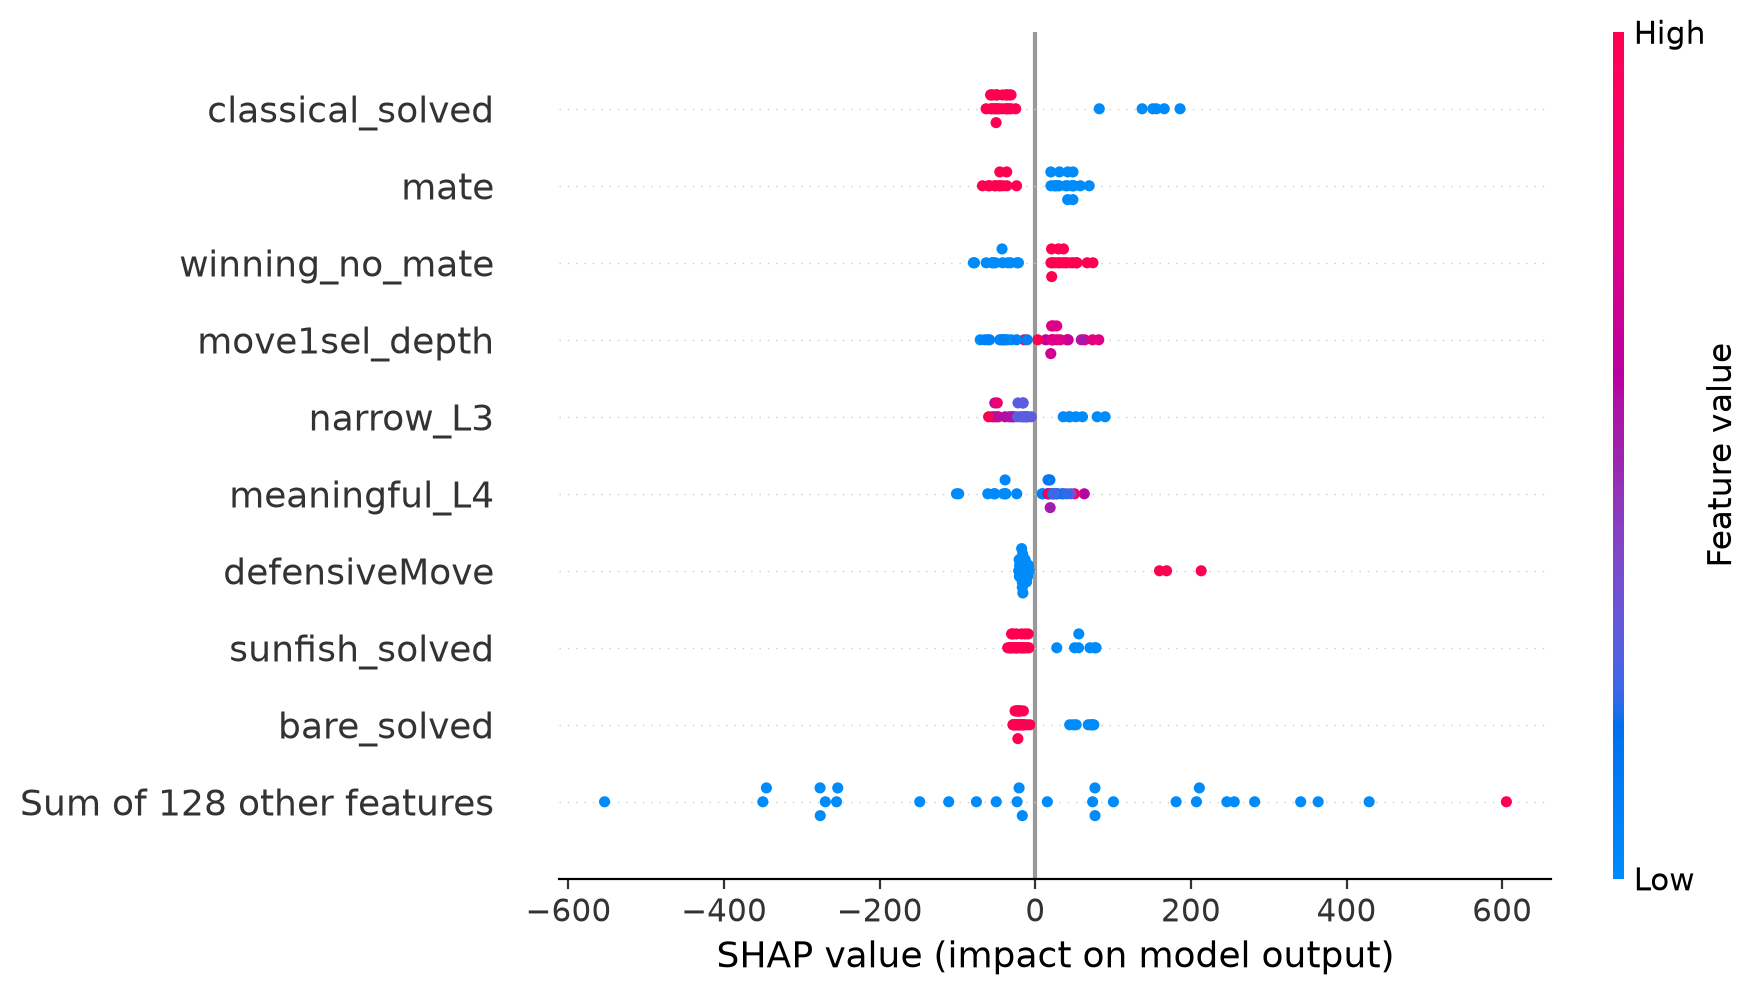
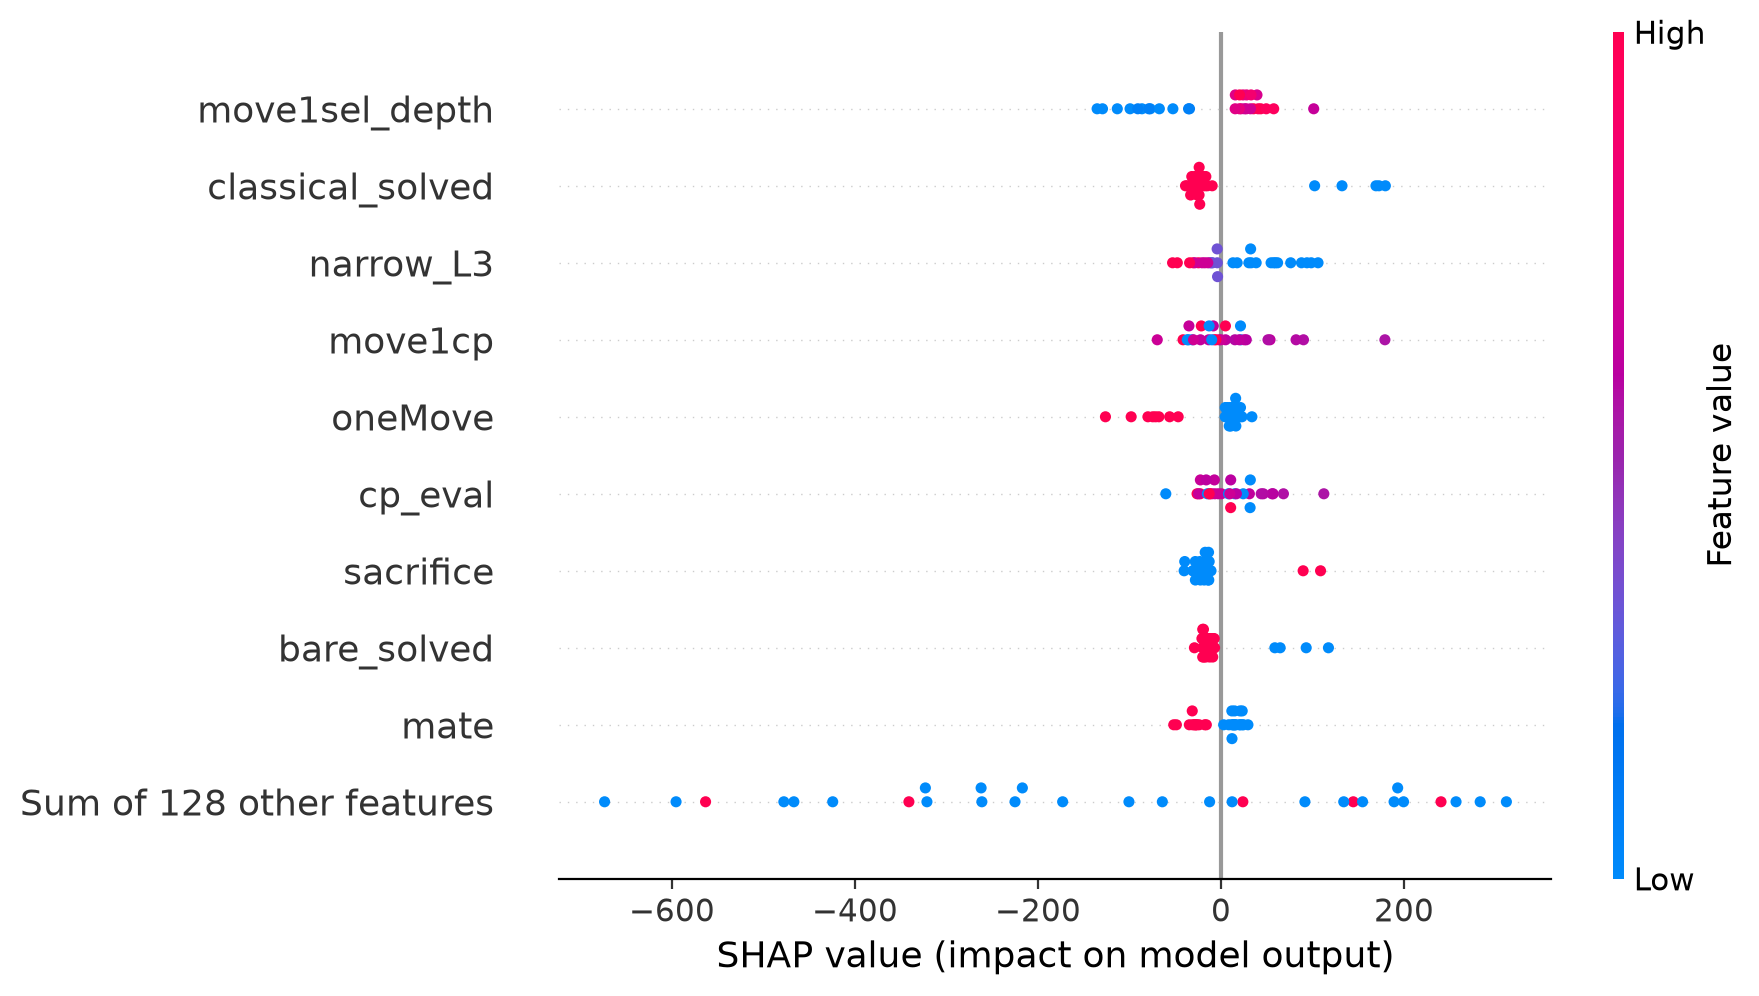
shap v evaluationu

diff --git a/code/evaluation/evaluation.py b/code/evaluation/evaluation.py
@@ -1,6 +1,7 @@
 import pandas as pd
 import numpy as np
 import matplotlib.pyplot as plt
+import shap
 from matplotlib.colors import LinearSegmentedColormap
 from sklearn.base import BaseEstimator, RegressorMixin, ClassifierMixin, is_classifier, is_regressor
 from sklearn.tree import DecisionTreeRegressor
@@ -11,8 +12,8 @@ from sklearn.preprocessing import StandardScaler, QuantileTransformer, PowerTran
 from sklearn.compose import TransformedTargetRegressor
 from xgboost import XGBRegressor, XGBClassifier, XGBRanker
 from sklearn.metrics import mean_absolute_error as MAE
-#from lightgbm import LGBMRegressor
-#from catboost import CatBoostRegressor
+from lightgbm import LGBMRegressor
+from catboost import CatBoostRegressor
 from sklearn.ensemble import StackingRegressor, GradientBoostingClassifier, RandomForestClassifier, VotingClassifier
 from sklearn.linear_model import Ridge, LinearRegression, BayesianRidge, LogisticRegression, SGDClassifier, SGDRegressor
 from sklearn.metrics import accuracy_score, confusion_matrix, classification_report, f1_score, roc_auc_score
@@ -46,7 +47,7 @@ def elo_to_difficulty(y):
 
 def heatmap(y_true, y_pred, title=""):
     cm = confusion_matrix(y_true, y_pred)
-    colors=["#00FF00", "#FFFF00", "#FF0000"]
+    colors=["#FF0000", "#FFFF00", "#00FF00"]
     cmap = LinearSegmentedColormap.from_list("custom_green_red", colors)
     fig, ax = plt.subplots(figsize=(6, 5))
     cax = ax.imshow(cm, interpolation='nearest', cmap=cmap)
@@ -68,10 +69,20 @@ def heatmap(y_true, y_pred, title=""):
 
 def evaluate(model, X_train, X_test, y_train, y_test, plots, standardize=True):
     print(type(model).__name__)
+    scaler = None
     if standardize:
         scaler = StandardScaler()
-        X_train_scaled = scaler.fit_transform(X_train)
-        X_test_scaled = scaler.transform(X_test)
+        X_train_scaled = pd.DataFrame(
+            scaler.fit_transform(X_train),
+            columns=X_train.columns,
+            index=X_train.index
+        )
+
+        X_test_scaled = pd.DataFrame(
+            scaler.transform(X_test),
+            columns=X_test.columns,
+            index=X_test.index
+        )
     else:
         X_train_scaled = X_train
         X_test_scaled = X_test
@@ -90,6 +101,7 @@ def evaluate(model, X_train, X_test, y_train, y_test, plots, standardize=True):
             pass
             #print(confusion_matrix(y_test, y_pred))
             #print(classification_report(y_test, y_pred))
+    return y_pred, scaler
 
 def evaluate_cv(model, X, y, folds=10, standardize=True):
     X_ = X.copy()
@@ -129,30 +141,51 @@ def evaluate_cv(model, X, y, folds=10, standardize=True):
         
 
 def evaluate_models(models, X, plots=False, cv=False):
+
+    results = {}
+
     for model in models:
+        model_name = type(model).__name__
+
         if is_regressor(model):
             y = X["rating"]
+            model_type = "regressor"
         elif is_classifier(model):
             y = X["difficulty"]
+            model_type = "classifier"
+        else:
+            continue
         
         X_ = X.drop(columns=["rating", "difficulty"])
         if cv:
             evaluate_cv(model, X_, y)
         else:
             X_train, X_test, y_train, y_test = train_test_split(X_, y, test_size=0.2, random_state=42)
-            evaluate(model, X_train, X_test, y_train, y_test, plots)
+            y_pred, scaler = evaluate(model, X_train, X_test, y_train, y_test, plots)
+
+            results[model_name] = {
+                "type": model_type,
+                "X_test": X_test,
+                "y_test": y_test,
+                "y_pred": y_pred,
+                "scaler": scaler
+            }
+
+    # return X_test for shap
+    return results
 
 def priors(X):
     counts = np.array(X["difficulty"].value_counts())
     return counts/sum(counts)
 
-class RegressorEnsemble(RegressorMixin):
+class RegressorEnsemble(RegressorMixin, BaseEstimator):
     def __init__(self, models):
         self.models = models
 
     def fit(self, X, y):
         for model in self.models:
             model.fit(X, y)
+        return self
 
     def predict(self, X):
         preds = []
@@ -215,6 +248,147 @@ def ablation():
     evaluate_models([knn_themes_stockfish], X_themes_stockfish, plots=False, cv=True)
     evaluate_models([knn_all], X, plots=False, cv=True)
 
+
+def do_shap_classifiers(model, X_test, y_test, y_pred, instances, shap_type, scaler):
+
+    model_name = type(model).__name__
+    print(f"\nSHAP for {model_name}")
+
+    classes = range(len(model.classes_))
+
+    if scaler is not None:
+        X_test = (pd.DataFrame(scaler.transform(X_test),columns=X_test.columns,index=X_test.index))
+
+    if shap_type == "tree":
+        explainer = shap.TreeExplainer(model)
+
+    elif shap_type == "lin": 
+        explainer = shap.LinearExplainer(model, X_test)
+
+    elif shap_type == "agn":
+        # slow af, only a few samples will be collected        
+        X_background = shap.sample(X_test, min(100, len(X_test)))
+        explainer = shap.Explainer(model.predict_proba, X_background)
+        
+    shap_values = explainer(X_test)
+
+    # we do shap for each of the classes
+    for class_idx in classes:
+        class_shap_values = shap_values[:, :, class_idx]
+
+        shap.plots.beeswarm(class_shap_values, max_display=20, show=False)
+        plt.title(
+            f"SHAP Summary: {model_name}\n"
+            f"for Class {class_idx}",
+            fontsize=17,
+            fontweight="bold"
+        )
+        plt.tight_layout()
+        path = f"evaluation/shap_plots/{model_name}_class_{class_idx}_SHAP_summary.png"
+        plt.savefig(
+            path,
+            dpi=300,
+            bbox_inches="tight"
+        )
+        plt.close()
+
+
+        for instance in instances:
+
+            actual = y_test.iloc[instance] if hasattr(y_test, "iloc") else y_test[instance]
+            predicted = y_pred[instance]
+
+            sv = class_shap_values[instance]
+            if np.asarray(sv.base_values).size == 1:
+                sv.base_values = np.asarray(sv.base_values).item()
+
+            shap.plots.waterfall(sv, max_display=20, show=False)
+            plt.title(
+                f"SHAP Explanation: {model_name}\n"
+                f"for Class {class_idx}, Instance {instance}\n"
+                f"Actual class: {actual} | Predicted class: {predicted}",
+                fontsize=17,
+                fontweight="bold"
+            )
+            plt.tight_layout()
+            path = f"evaluation/shap_plots/{model_name}_class_{class_idx}_waterfall_{instance}.png"
+            plt.savefig(
+                path,
+                dpi=300,
+                bbox_inches="tight"
+            )
+            plt.close()
+
+
+
+def do_shap_regressors(model, X_test, y_test, y_pred, instances, shap_type, scaler):
+
+    model_name = type(model).__name__
+    print(f"\nSHAP for {model_name}")
+
+    if scaler is not None:
+        X_test = (pd.DataFrame(scaler.transform(X_test),columns=X_test.columns,index=X_test.index))
+
+    if shap_type == "tree":
+        explainer = shap.TreeExplainer(model)
+
+    elif shap_type == "lin": 
+        explainer = shap.LinearExplainer(model, X_test)
+
+    elif shap_type == "agn":
+        # slow af, only a few samples will be collected        
+        X_background = shap.sample(X_test, min(100, len(X_test)))
+        explainer = shap.Explainer(model.predict, X_background)
+
+    else:
+        print("!!! wrong shap type")
+
+    shap_values = explainer(X_test)
+
+    shap.plots.beeswarm(shap_values, max_display=20, show=False)
+    plt.title(
+        f"SHAP Summary: {model_name}",
+        fontsize=17,
+        fontweight="bold"
+    )
+    plt.tight_layout()
+    path = f"evaluation/shap_plots/{model_name}_SHAP_summary.png"
+    plt.savefig(
+        path,
+        dpi=300,
+        bbox_inches="tight"
+    )
+    plt.close()
+
+    for instance in instances:
+
+        actual = y_test.iloc[instance] if hasattr(y_test, "iloc") else y_test[instance]
+        predicted = y_pred[instance]
+
+        sv = shap_values[instance]
+        if np.asarray(sv.base_values).size == 1:
+            sv.base_values = np.asarray(sv.base_values).item()
+
+        shap.plots.waterfall(sv, max_display=20, show=False)
+        plt.title(
+            f"SHAP Explanation: {model_name}\n"
+            f"for Instance {instance}\n"
+            f"Actual rating: {actual:.0f} | Predicted rating: {predicted:.0f}",
+            fontsize=17,
+            fontweight="bold"
+        )
+        plt.tight_layout()
+        path = f"evaluation/shap_plots/{model_name}_waterfall_{instance}.png"
+        plt.savefig(
+            path,
+            dpi=300,
+            bbox_inches="tight"
+        )
+        plt.close()
+
+
+
+
 if __name__ == "__main__":
     #X = process_data("./dataset_100k.csv")
     X = process_data("../datasets/dataset_test.csv", remove=True)
@@ -226,22 +400,20 @@ if __name__ == "__main__":
     #print(X["difficulty"].value_counts())
     
     xgb_reg = XGBRegressor(n_estimators=100, learning_rate=0.1, eval_metric="mae")
-    xgb_cl = XGBClassifier(n_estimators=100, learning_rate=0.1)
-    """
     linreg = LinearRegression()
     bayes_ridge = BayesianRidge()
     sgdreg = SGDRegressor()
 
     nn = MLPRegressor(
-    hidden_layer_sizes=(256, 256, 128, 128, 64),
-    activation='relu',
-    solver='adam',
-    batch_size=256,
-    early_stopping=True,
-    learning_rate="adaptive",
-    max_iter=300,
-    random_state=42,
-    alpha=0.001
+        hidden_layer_sizes=(256, 256, 128, 128, 64),
+        activation='relu',
+        solver='adam',
+        batch_size=256,
+        early_stopping=True,
+        learning_rate="adaptive",
+        max_iter=300,
+        random_state=42,
+        alpha=0.001
     )
 
     regressors = [xgb_reg, linreg, bayes_ridge, sgdreg, nn]
@@ -253,26 +425,70 @@ if __name__ == "__main__":
     naive_bayes = GaussianNB(priors=priors(X))
     rf = RandomForestClassifier(n_estimators=100)
     knn = KNeighborsClassifier(n_neighbors=10)
-    #logreg = LogisticRegression(class_weight="balanced")
+    logreg = LogisticRegression(class_weight="balanced")
     sgdcl = SGDClassifier(loss="log_loss")
     gbcl = GradientBoostingClassifier()
 
     nn1 = MLPClassifier(
-    hidden_layer_sizes=(2048, 1024, 512, 256, 128),
-    activation='relu',
-    solver='adam',
-    batch_size=512,
-    early_stopping=True,
-    max_iter=300,
-    random_state=42,
-    alpha=0.001
+        hidden_layer_sizes=(2048, 1024, 512, 256, 128),
+        activation='relu',
+        solver='adam',
+        batch_size=512,
+        early_stopping=True,
+        max_iter=300,
+        random_state=42,
+        alpha=0.001
     )
 
-    classifiers = [xgb_cl, svm, naive_bayes, rf, knn, sgdcl, gbcl, nn1]
+    classifiers = [xgb_cl, svm, naive_bayes, rf, knn, logreg, sgdcl, gbcl, nn1]
     cl_ensemble = VotingClassifier([(type(cl).__name__, cl) for cl in classifiers], voting="soft")
     classifiers.append(cl_ensemble)
-    """
-    #models = regressors + classifiers
-    models = [xgb_reg, xgb_cl]
-    evaluate_models(models, X, plots=True)
+
+    models = regressors + classifiers
+    results = evaluate_models(models, X, plots=False)
+
+    # ------------------------------
+    # SHAP - does not work for evaluate_cv!
+    # ------------------------------
+
+    tree_explainers = ["XGBRegressor", "XGBClassifier", "RandomForestClassifier"]
+    linear_explainers = ["LinearRegression", "LogisticRegression", "BayesianRidge", "SGDRegressor", "SGDClassifier"]
+    model_agnostic_explainers = ["MLPRegressor", "MLPClassifier", "SVC", "GaussianNB", "KNeighborsClassifier", "RegressorEnsemble", "VotingClassifier", "GradientBoostingClassifier"]
+    
+    # if you want shap for specific puzzles
+    instances = [13]
+
+    for model_name, result in results.items():
+
+        shap_type = None 
+        if model_name in tree_explainers:
+            shap_type = "tree"
+        elif model_name in linear_explainers:
+            shap_type = "lin"
+        elif model_name in model_agnostic_explainers:
+            # continue unless ur masochist <3
+            shap_type = "agn"
+            continue
+        else:
+            print(f"model {model_name} can't be shapped!")
+            continue
+
+    
+        if result["type"] == "regressor":
+
+            model = next((m for m in regressors if type(m).__name__ == model_name), None)
+            if model is None:
+                print(f"Skipping {model_name}: not found in classifiers.")
+                continue       
+
+            do_shap_regressors(model, result["X_test"], result["y_test"], result["y_pred"], instances, shap_type, result["scaler"])
+
+        elif result["type"] == "classifier":
+
+            model = next((m for m in classifiers if type(m).__name__ == model_name), None)
+            if model is None:
+                print(f"Skipping {model_name}: not found in classifiers.")
+                continue       
+
+            do_shap_classifiers(model, result["X_test"], result["y_test"], result["y_pred"], instances, shap_type, result["scaler"])
     
